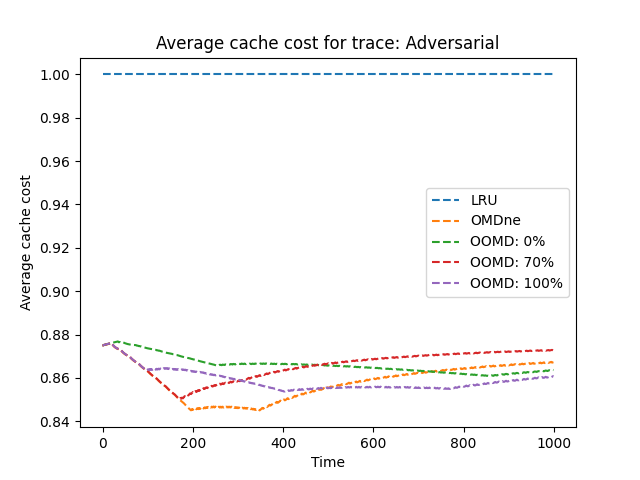
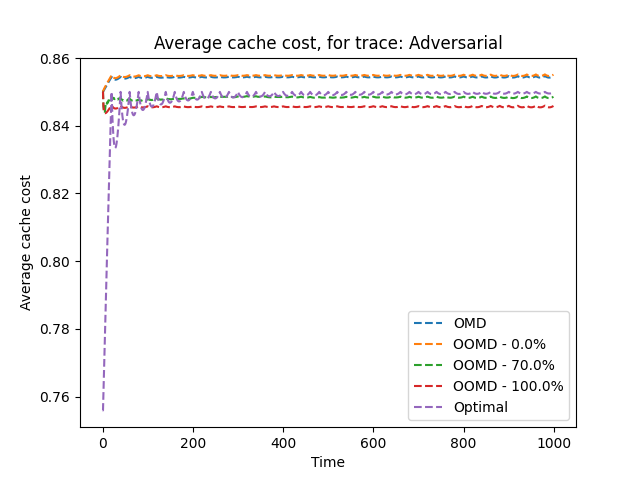
fixed optimal

diff --git a/environment.py b/environment.py
@@ -58,16 +58,17 @@ class Environment:
         self.caches = cs
         self.c_names = c_names
         self.trace = globals()[trace_name](N, T)
+        self.rs = None
 
     def plot_caches(self):
         for cache in self.caches:
             cost = cache.get_avg_cost()
-            plt.plot(np.arange(self.T), cost, "--", label=cache.get_label())
+            plt.plot(np.arange(len(cost)), cost, "--", label=cache.get_label())
 
         plt.title("Average cache cost, for trace: " + self.trace.get_name())
         plt.xlabel("Time")
         plt.ylabel("Average cache cost")
-        plt.legend(loc="upper right")
+        plt.legend()
         plt.show()
 
     def print_caches(self):
@@ -81,15 +82,19 @@ class Environment:
         rs = self.trace.generate()
         # self.trace.plot(rs)
         rs = self.trace.transform_to_request_array(rs)
+        self.rs = rs
         for cache in self.caches:
             cache.process_trace(rs)
 
     def execute_with_optimal(self):
-        # self.execute()
-        # if self.c_type == "OMD":
-        #     optimals = []
-        #     for cache in self.caches:
-        #         optimal = Optimal(self.k, self.N, self.T)
-        #         optimal.set_cache(cache.return_x())
-        #         optimals.append(optimal)
-        pass
+        self.execute()
+
+        test = Cache(OOMD(self.k, self.N, self.T, 1.0))
+        test.process_trace(self.rs)
+        cache_state = test.policy.x
+        optimal = Cache(Optimal(self.k, self.N, self.T, cache_state))
+        optimal.process_trace(self.rs)
+
+        self.caches.append(optimal)
+
+

diff --git a/policies/Optimal.py b/policies/Optimal.py
@@ -6,9 +6,9 @@ from system.cache import Cache
 
 class Optimal(Policy):
 
-    def __init__(self, capacity: int, catalog: int, time_window: int) -> None:
+    def __init__(self, capacity: int, catalog: int, time_window: int, cache_state) -> None:
         super().__init__(capacity, catalog, time_window)
-        self.x = np.zeros(catalog)
+        self.x = np.full(self.N, self.k / self.N) if cache_state is None else cache_state
         self.name = "Optimal"
 
 
@@ -23,7 +23,12 @@ class Optimal(Policy):
         pass
 
     def cache_content(self):
-        pass
+        keys = np.arange(self.N)
+        zipped = zip(keys, np.round(self.x, 6))
+        return dict(zipped)
+
+    def cost(self, r_t):
+        return np.sum(self.w * r_t * (1 - self.x))
 
     def get_label(self) -> str:
         return self.name

diff --git a/main.py b/main.py
@@ -25,7 +25,7 @@ from traces.sliding_pop import SlidingPop
 # ]
 
 env = Environment("configs/system_config.json")
-env.execute()
+env.execute_with_optimal()
 env.plot_caches()
 env.print_caches()
 
